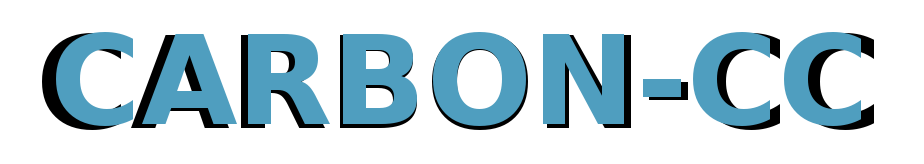
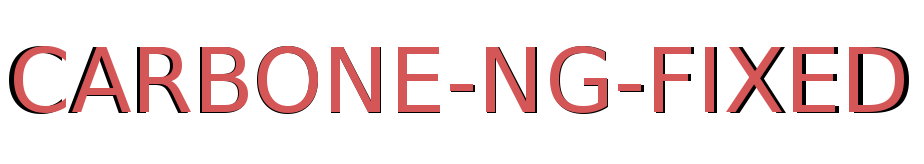
Changed README and menu artwork.

diff --git a/README.md b/README.md
@@ -1,20 +1,11 @@
-Carbone-cc
+Carbone-ng-fixed
 ============
 
-### What's Carbone-cc?
+### What's this?
 
-Carbone-cc (Carbone-carboncopy) is a fork of [carbone-ng](https://github.com/Calinou/carbone-ng).
-It is a subgame for Minetest. Carbone-cc was created by mawaway 
-and can be found [here](https://github.com/mawaway/carbone-cc).
+This is a working version of Carbone-ng. The only change is the menu
+artwork and mods/default/functions.lua to fix a call to a changed Minetest 
+function. 
 
-### How do I set this up?
-
-Go to games/ directory, then clone this repository:
-	git clone https://github.com/mawaway/carbone-cc.git
-
-If you want the latest features, pull from the dev branch:
-	git pull origin dev
-
-The Minetest Engine can be found in:
-  https://github.com/minetest/minetest/
-
+If you want an updated Carbone (updated, and newer different mods) see
+[Carbone-cc](https://github.com/mawaway/carbone-cc).
